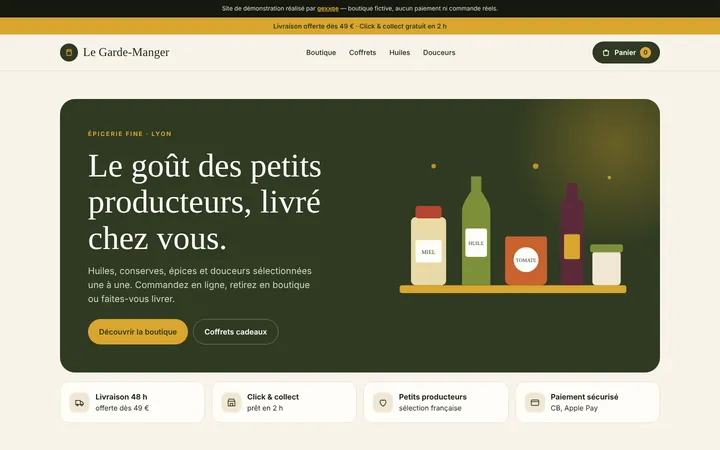
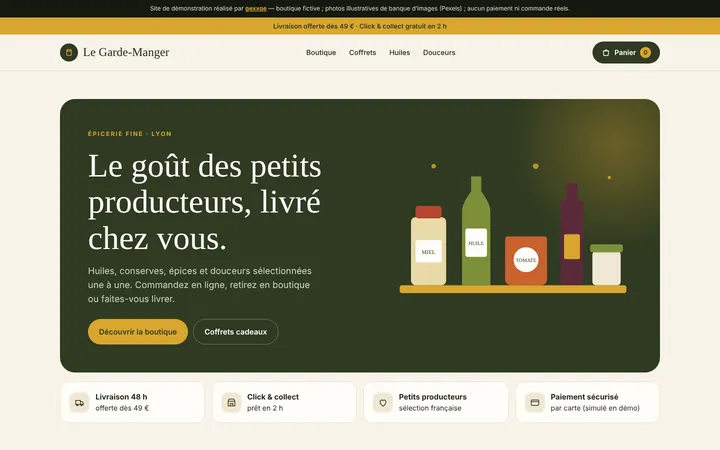
Publish shop demo with 5 verified photos; refresh thumbnail; remove preview (#10)
Claude-Session: https://claude.ai/code/session_018eYywhZyxsmBzVAYUzvwuf

Changed region(s): [[0.2139, 0.0, 0.7944, 0.0311], [0.7639, 0.9022, 0.8861, 0.9333]]

diff --git a/demos/boutique/index.html b/demos/boutique/index.html
@@ -58,7 +58,7 @@ select{border:1.5px solid var(--line);background:var(--card);border-radius:999px
 .prod{background:var(--card);border:1px solid var(--line);border-radius:22px;overflow:hidden;display:flex;flex-direction:column;transition:.25s}
 .prod:hover{box-shadow:0 18px 40px rgba(47,58,34,.1);transform:translateY(-3px)}
 .prod-img{aspect-ratio:1/1;position:relative;display:grid;place-items:center}
-.prod-img svg{width:62%;height:auto}
+.prod-img svg{width:62%;height:auto}.prod-img.has-photo img{position:absolute;inset:0;width:100%;height:100%;object-fit:cover}.prod-img .badge{z-index:1}.thumb{overflow:hidden}.thumb.has-photo img{width:100%;height:100%;object-fit:cover}
 .badge{position:absolute;top:12px;left:12px;background:var(--red);color:#fff;font-size:11px;font-weight:700;padding:4px 9px;border-radius:999px;letter-spacing:.04em}
 .badge.new{background:var(--olive)}
 .prod-body{padding:16px 18px 18px;display:flex;flex-direction:column;flex:1}
@@ -107,7 +107,7 @@ select{border:1.5px solid var(--line);background:var(--card);border-radius:999px
 .full{width:100%}
 .done{text-align:center;padding:40px 10px}
 .done .c{width:66px;height:66px;border-radius:50%;background:#e6eedb;color:var(--olive);display:grid;place-items:center;margin:0 auto 14px}
-footer{background:var(--olive);color:#cfd6c2;padding:44px 0;font-size:14px;margin-top:30px}
+.demo-info{padding:56px 0;border-top:1px solid var(--line)}.di-grid{display:grid;grid-template-columns:1fr 1fr;gap:30px;margin-top:14px}.demo-info h3{font-size:24px;margin-bottom:8px}.demo-info ul{margin:0;padding-left:18px;color:var(--muted);font-size:15px}.demo-info li{margin:4px 0}@media(max-width:700px){.di-grid{grid-template-columns:1fr;gap:16px}}footer{background:var(--olive);color:#cfd6c2;padding:44px 0;font-size:14px;margin-top:30px}
 .foot{display:flex;justify-content:space-between;gap:20px;flex-wrap:wrap;align-items:center}
 .foot .logo{color:#fff}
 @media(max-width:1000px){.grid{grid-template-columns:repeat(3,1fr)}.perks{grid-template-columns:1fr 1fr}.menu{display:none}}
@@ -116,7 +116,7 @@ footer{background:var(--olive);color:#cfd6c2;padding:44px 0;font-size:14px;margi
 </style>
 </head>
 <body>
-<div class="demo-bar">Site de démonstration réalisé par <a href="/">gexxqe</a> — boutique fictive, aucun paiement ni commande réels.</div>
+<div class="demo-bar">Site de démonstration réalisé par <a href="/">gexxqe</a> — boutique fictive ; photos illustratives de banque d’images (Pexels) ; aucun paiement ni commande réels.</div>
 <div class="ship">Livraison offerte dès 49 € · Click & collect gratuit en 2 h</div>
 <header><div class="wrap nav">
   <a class="logo" href="#"><span class="logo-mark"><svg width="18" height="18" viewBox="0 0 24 24" fill="none" stroke="currentColor" stroke-width="2"><path d="M7 4h10l1 4H6z"/><rect x="6" y="8" width="12" height="12" rx="2"/></svg></span>Le Garde-Manger</a>
@@ -171,6 +171,7 @@ footer{background:var(--olive);color:#cfd6c2;padding:44px 0;font-size:14px;margi
   </div>
 </section>
 
+<section class="demo-info" aria-label="Ce que montre cette démo"><div class="wrap"><span class="eyebrow" style="color:#9a7414">À propos de cette démo</span><div class="di-grid"><div><h3>Fonctionnel</h3><ul><li>Catalogue avec filtres par catégorie, recherche et tri</li><li>Panier : quantités, code promo, retrait ou livraison, totaux</li><li>Panier conservé dans ce navigateur</li></ul></div><div><h3>Simulé</h3><ul><li>Paiement et commande : aucun débit, aucune commande envoyée. Pour une vraie boutique : Stripe ou PayPal, et suivi des commandes dans un espace de gestion.</li><li>Stocks, délais et retrait en 2 h : textes d’exemple.</li><li>Boutique fictive. Photos illustratives : elles ne garantissent ni origine, ni appellation, ni composition. Les autres produits restent illustrés.</li></ul></div></div></div></section>
 <footer><div class="wrap foot"><span class="logo"><span class="logo-mark"><svg width="18" height="18" viewBox="0 0 24 24" fill="none" stroke="currentColor" stroke-width="2"><path d="M7 4h10l1 4H6z"/><rect x="6" y="8" width="12" height="12" rx="2"/></svg></span>Le Garde-Manger</span><span>Épicerie fictive · 8 rue des Halles, Lyon · Site démo réalisé par <a href="/" style="color:#d9a62e">gexxqe</a></span></div></footer>
 
 <div class="overlay" id="overlay"></div>
@@ -192,19 +193,20 @@ footer{background:var(--olive);color:#cfd6c2;padding:44px 0;font-size:14px;margi
 <script>
 (function(){
 const P=[
- {id:1,n:"Huile d’olive vierge extra",o:"Provence",c:"huiles",p:16.9,d:"Fruité vert, première pression à froid. 50 cl.",col:"#7d8f3a",bg:"#eef1e2",s:"bottle",b:"Best"},
- {id:2,n:"Miel de lavande",o:"Drôme",c:"sucre",p:9.5,d:"Crémeux et floral, récolte de l’été. 250 g.",col:"#e0b33e",bg:"#f8efd6",s:"jar"},
+ {id:1,img:"huile-olive",alt:"Carafe d’huile en verre bouchée de liège",n:"Huile d’olive vierge extra",o:"Provence",c:"huiles",p:16.9,d:"Fruité vert, première pression à froid. 50 cl.",col:"#7d8f3a",bg:"#eef1e2",s:"bottle",b:"Best"},
+ {id:2,img:"miel",alt:"Pot de miel en verre avec cuillère en bois",n:"Miel de lavande",o:"Drôme",c:"sucre",p:9.5,d:"Crémeux et floral, récolte de l’été. 250 g.",col:"#e0b33e",bg:"#f8efd6",s:"jar"},
  {id:3,n:"Sauce tomate au basilic",o:"Ardèche",c:"conserves",p:5.8,d:"Tomates mûries au soleil, cuisson lente.",col:"#c9622f",bg:"#f7e4da",s:"jar"},
  {id:4,n:"Vinaigre de Banyuls",o:"Roussillon",c:"huiles",p:12.4,old:14.9,d:"Vieilli en fût, notes de fruits secs. 25 cl.",col:"#5b2a3a",bg:"#efe0e4",s:"bottle",b:"−15 %"},
  {id:5,n:"Piment d’Espelette AOP",o:"Pays basque",c:"epices",p:8.9,d:"Doux et parfumé, en poudre. 40 g.",col:"#b4462f",bg:"#f6e2dc",s:"tin"},
  {id:6,n:"Rillettes de sardine",o:"Bretagne",c:"conserves",p:6.5,d:"Au citron et à la ciboulette. 120 g.",col:"#3c6e8f",bg:"#e2edf3",s:"tin",b:"Nouveau"},
- {id:7,n:"Caramel au beurre salé",o:"Bretagne",c:"sucre",p:7.2,d:"À tartiner, au sel de Guérande. 220 g.",col:"#a8692b",bg:"#f4e6d4",s:"jar"},
+ {id:7,img:"caramel",alt:"Caramel onctueux en gros plan",n:"Caramel au beurre salé",o:"Bretagne",c:"sucre",p:7.2,d:"À tartiner, au sel de Guérande. 220 g.",col:"#a8692b",bg:"#f4e6d4",s:"jar"},
  {id:8,n:"Herbes de Provence",o:"Provence",c:"epices",p:4.9,d:"Thym, romarin, sarriette, origan.",col:"#6f8a54",bg:"#e9efe0",s:"tin"},
  {id:9,n:"Tapenade noire",o:"Nice",c:"conserves",p:6.9,d:"Olives noires, câpres et anchois.",col:"#2f2f2f",bg:"#e7e6e2",s:"jar"},
  {id:10,n:"Huile de noix",o:"Périgord",c:"huiles",p:11.5,d:"Torréfiée, idéale en vinaigrette. 25 cl.",col:"#8a6234",bg:"#f1e7d9",s:"bottle"},
- {id:11,n:"Biscuits sablés",o:"Normandie",c:"sucre",p:5.5,d:"Pur beurre, recette traditionnelle.",col:"#d9a62e",bg:"#f7eed8",s:"tin"},
- {id:12,n:"Poivre de Kampot",o:"Cambodge",c:"epices",p:9.9,d:"Poivre noir IGP, à moudre. 50 g.",col:"#3a3a2a",bg:"#e8e6dc",s:"jar",b:"Best"}];
+ {id:11,img:"biscuits",alt:"Assortiment de biscuits au beurre",n:"Biscuits sablés",o:"Normandie",c:"sucre",p:5.5,d:"Pur beurre, recette traditionnelle.",col:"#d9a62e",bg:"#f7eed8",s:"tin"},
+ {id:12,img:"poivre",alt:"Grains de poivre noir en gros plan",n:"Poivre de Kampot",o:"Cambodge",c:"epices",p:9.9,d:"Poivre noir IGP, à moudre. 50 g.",col:"#3a3a2a",bg:"#e8e6dc",s:"jar",b:"Best"}];
 const CATS=[["all","Tout"],["huiles","Huiles & vinaigres"],["conserves","Conserves"],["epices","Épices"],["sucre","Douceurs"]];
+const media=(x,size)=>x.img?`<img src="img/${x.img}-400.webp" srcset="img/${x.img}-400.webp 400w, img/${x.img}-800.webp 800w" sizes="${size}" width="400" height="400" alt="${x.alt}" loading="lazy" decoding="async">`:art(x);
 const euro=v=>v.toFixed(2).replace('.',',')+' €';
 function art(x){if(x.s==="bottle")return `<svg viewBox="0 0 100 140"><path d="M38 140V60c0-10 6-18 8-26V12h8v22c2 8 8 16 8 26v80z" fill="${x.col}"/><rect x="44" y="4" width="12" height="10" rx="2" fill="#2f3a22"/><rect x="40" y="82" width="20" height="34" rx="3" fill="#fffdf8"/></svg>`;
  if(x.s==="tin")return `<svg viewBox="0 0 100 140"><rect x="22" y="40" width="56" height="86" rx="8" fill="${x.col}"/><rect x="18" y="34" width="64" height="12" rx="4" fill="#2f3a22"/><rect x="30" y="66" width="40" height="34" rx="4" fill="#fffdf8"/></svg>`;
@@ -218,8 +220,10 @@ document.querySelectorAll('[data-jump]').forEach(a=>a.addEventListener('click',(
 document.getElementById('q').addEventListener('input',e=>{q=e.target.value.toLowerCase();render()});
 document.getElementById('sort').addEventListener('change',e=>{sort=e.target.value;render()});
 function render(){let l=P.filter(x=>x.c!=='box'&&(cat==='all'||x.c===cat)&&(x.n+x.o+x.d).toLowerCase().includes(q));
+ // Ordre « Populaires » : produits photographiés d’abord (ordre d’origine conservé dans chaque groupe).
+ if(sort==='pop')l=l.filter(x=>x.img).concat(l.filter(x=>!x.img));
  if(sort==='asc')l.sort((a,b)=>a.p-b.p);if(sort==='desc')l.sort((a,b)=>b.p-a.p);
- grid.innerHTML=l.length?l.map(x=>`<article class="prod"><div class="prod-img" style="background:${x.bg}">${x.b?`<span class="badge${x.b==='Nouveau'?' new':''}">${x.b}</span>`:''}${art(x)}</div><div class="prod-body"><span class="origin">${x.o}</span><h3>${x.n}</h3><p>${x.d}</p><div class="prod-foot"><span class="pp">${euro(x.p)}${x.old?`<s>${euro(x.old)}</s>`:''}</span><button class="add" data-id="${x.id}" aria-label="Ajouter ${x.n} au panier">+</button></div></div></article>`).join(''):'<p class="empty">Aucun produit ne correspond à votre recherche.</p>';}
+ grid.innerHTML=l.length?l.map(x=>`<article class="prod"><div class="prod-img${x.img?' has-photo':''}" style="background:${x.bg}">${x.b?`<span class="badge${x.b==='Nouveau'?' new':''}">${x.b}</span>`:''}${media(x,'(max-width:760px) 50vw, 280px')}</div><div class="prod-body"><span class="origin">${x.o}</span><h3>${x.n}</h3><p>${x.d}</p><div class="prod-foot"><span class="pp">${euro(x.p)}${x.old?`<s>${euro(x.old)}</s>`:''}</span><button class="add" data-id="${x.id}" aria-label="Ajouter ${x.n} au panier">+</button></div></div></article>`).join(''):'<p class="empty">Aucun produit ne correspond à votre recherche.</p>';}
 grid.addEventListener('click',e=>{const b=e.target.closest('.add');if(!b)return;add(+b.dataset.id);b.classList.add('ok');b.textContent='✓';setTimeout(()=>{b.classList.remove('ok');b.textContent='+'},900)});
 // cart
 P.push({id:99,n:"Coffret « Apéro »",o:"Coffret",c:"box",p:39,col:"#2f3a22",bg:"#efe7d2",s:"tin"});
@@ -230,7 +234,7 @@ function add(id){cart[id]=(cart[id]||0)+1;save();upd();const c=document.getEleme
 document.getElementById('addBox').addEventListener('click',()=>{add(99);open()});
 const $=id=>document.getElementById(id);
 function upd(){const ids=Object.keys(cart).filter(k=>cart[k]>0);if(ids.length)$('foot').style.display='';const n=ids.reduce((s,k)=>s+cart[k],0);$('count').textContent=n;
- $('lines').innerHTML=ids.length?ids.map(k=>{const x=P.find(p=>p.id==k);return `<div class="line"><div class="thumb" style="background:${x.bg}">${art(x)}</div><div><h4>${x.n}</h4><div class="qty"><button data-d="-1" data-id="${k}" aria-label="Retirer">−</button><span>${cart[k]}</span><button data-d="1" data-id="${k}" aria-label="Ajouter">+</button></div></div><b>${euro(x.p*cart[k])}</b></div>`}).join(''):'<p class="empty">Votre panier est vide.</p>';
+ $('lines').innerHTML=ids.length?ids.map(k=>{const x=P.find(p=>p.id==k);return `<div class="line"><div class="thumb${x.img?' has-photo':''}" style="background:${x.bg}">${media(x,'58px')}</div><div><h4>${x.n}</h4><div class="qty"><button data-d="-1" data-id="${k}" aria-label="Retirer">−</button><span>${cart[k]}</span><button data-d="1" data-id="${k}" aria-label="Ajouter">+</button></div></div><b>${euro(x.p*cart[k])}</b></div>`}).join(''):'<p class="empty">Votre panier est vide.</p>';
  const sub=ids.reduce((s,k)=>s+P.find(p=>p.id==k).p*cart[k],0);const disc=promo?sub*.1:0;const ship=mode==='liv'&&sub-disc<49&&sub>0?4.9:0;
  $('sub').textContent=euro(sub);$('discRow').style.display=promo?'flex':'none';$('disc').textContent='−'+euro(disc);$('shipCost').textContent=ship?euro(ship):'Gratuit';$('total').textContent=euro(sub-disc+ship);
  $('checkout').disabled=!ids.length;$('checkout').style.opacity=ids.length?1:.5;}
